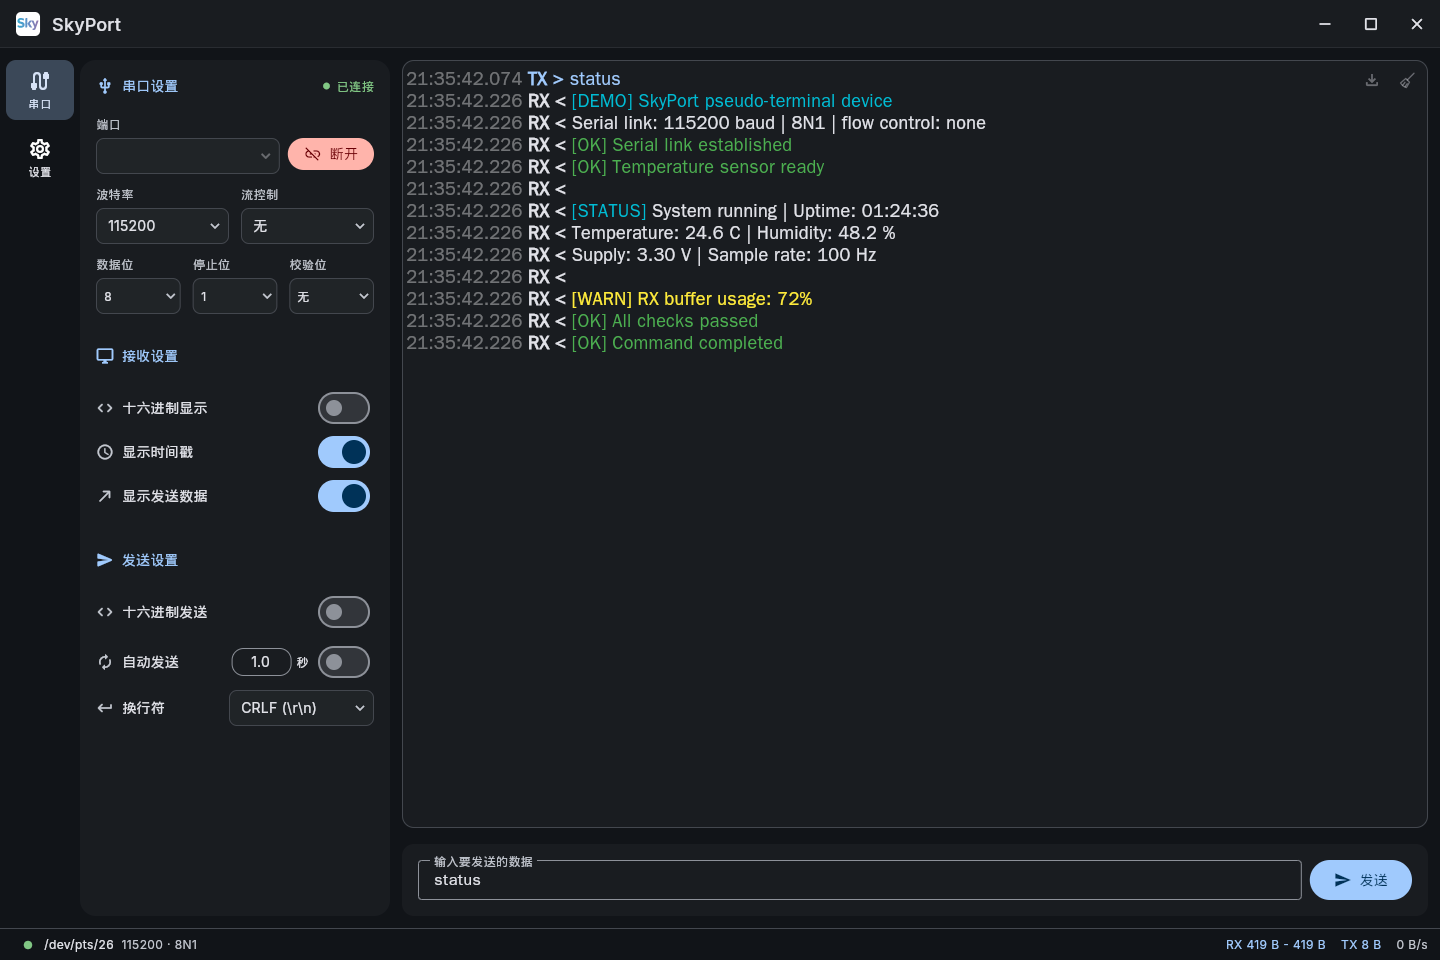
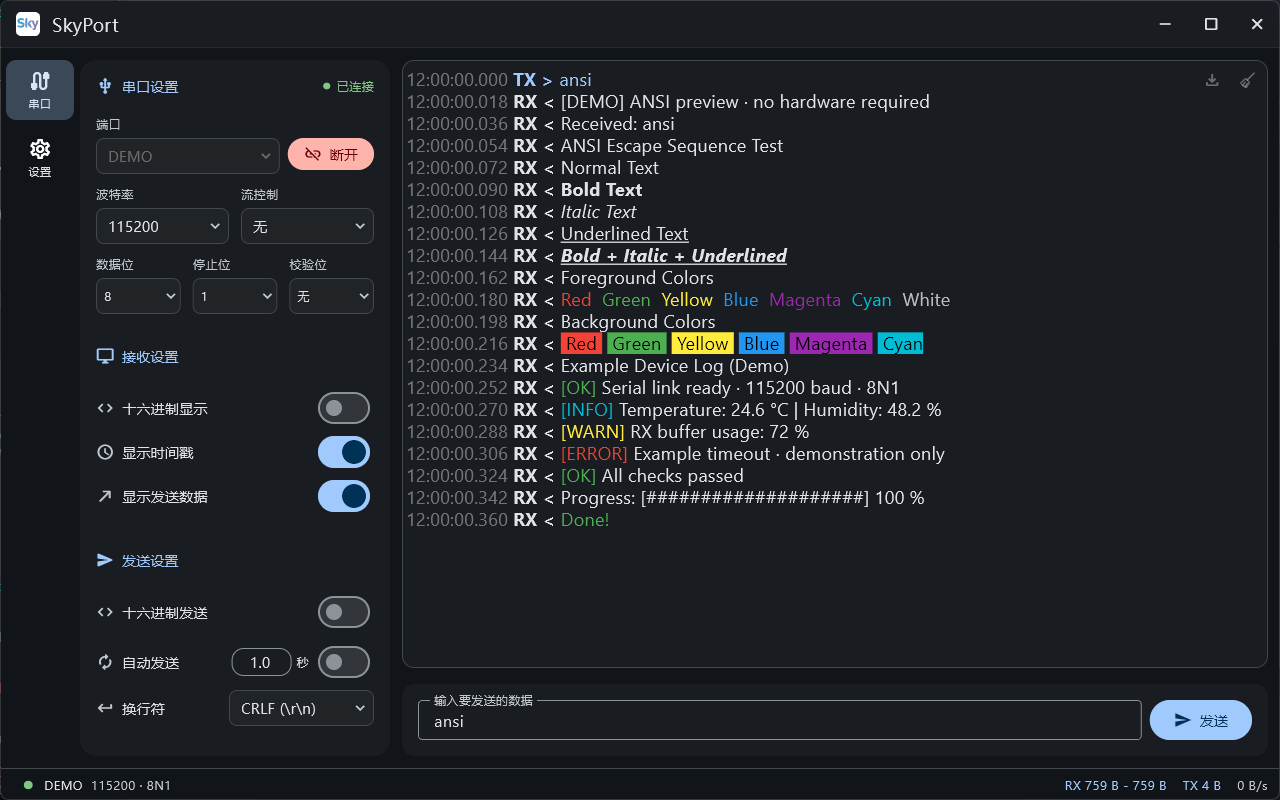
docs: automate README screenshot generation
Render a deterministic ANSI demo in the real Windows UI without requiring serial hardware. Keep timestamps stable and remove duplicate color samples.

diff --git a/app/integration_test/readme_screenshot_test.dart b/app/integration_test/readme_screenshot_test.dart
@@ -1,0 +1,169 @@
+import 'dart:convert';
+import 'dart:io';
+import 'dart:typed_data';
+
+import 'package:flutter/material.dart';
+import 'package:flutter_riverpod/flutter_riverpod.dart';
+import 'package:flutter_test/flutter_test.dart';
+import 'package:integration_test/integration_test.dart';
+import 'package:shared_preferences/shared_preferences.dart';
+import 'package:skyport/main.dart';
+import 'package:skyport/models/log_model.dart';
+import 'package:skyport/models/ui_state.dart';
+import 'package:skyport/providers/common_providers.dart';
+import 'package:skyport/providers/ui_controller.dart';
+
+// Presentation fixture only: no CoreBootstrap, native session, or serial device.
+class _ScreenshotController extends UiController {
+  @override
+  UiState build() {
+    const lines = [
+      '[DEMO] ANSI preview · no hardware required',
+      'Received: ansi',
+      'ANSI Escape Sequence Test',
+      'Normal Text',
+      '\x1b[1mBold Text\x1b[0m',
+      '\x1b[3mItalic Text\x1b[0m',
+      '\x1b[4mUnderlined Text\x1b[0m',
+      '\x1b[1;3;4mBold + Italic + Underlined\x1b[0m',
+      'Foreground Colors',
+      '\x1b[31mRed\x1b[0m  \x1b[32mGreen\x1b[0m  \x1b[33mYellow\x1b[0m  \x1b[34mBlue\x1b[0m  \x1b[35mMagenta\x1b[0m  \x1b[36mCyan\x1b[0m  \x1b[37mWhite\x1b[0m',
+      'Background Colors',
+      '\x1b[30;41m Red \x1b[0m \x1b[30;42m Green \x1b[0m \x1b[30;43m Yellow \x1b[0m \x1b[30;44m Blue \x1b[0m \x1b[30;45m Magenta \x1b[0m \x1b[30;46m Cyan \x1b[0m',
+      'Example Device Log (Demo)',
+      '\x1b[32m[OK]\x1b[0m Serial link ready · 115200 baud · 8N1',
+      '\x1b[36m[INFO]\x1b[0m Temperature: 24.6 °C | Humidity: 48.2 %',
+      '\x1b[33m[WARN]\x1b[0m RX buffer usage: 72 %',
+      '\x1b[31m[ERROR]\x1b[0m Example timeout · demonstration only',
+      '\x1b[32m[OK]\x1b[0m All checks passed',
+      'Progress: [####################] 100 %',
+      '\x1b[32mDone!\x1b[0m',
+    ];
+    final timestamp = DateTime.utc(2026, 1, 1, 12);
+    final entries = [
+      LogEntry(
+        Uint8List.fromList(utf8.encode('ansi')),
+        LogEntryType.sent,
+        timestamp,
+        id: 1,
+      ),
+      for (var i = 0; i < lines.length; i++)
+        LogEntry(
+          Uint8List.fromList(utf8.encode(lines[i])),
+          LogEntryType.received,
+          timestamp.add(Duration(milliseconds: (i + 1) * 18)),
+          id: i + 2,
+        ),
+    ];
+    final rx = entries
+        .skip(1)
+        .fold<int>(0, (size, row) => size + row.data.length);
+    return UiState(
+      sequence: 0,
+      connection: UiConnection.connected,
+      portName: 'DEMO',
+      baudRate: 115200,
+      dataBits: 8,
+      parity: UiParity.none,
+      flowControl: UiFlowControl.none,
+      stopBits: 1,
+      autoReconnect: false,
+      hexSend: false,
+      newline: UiNewline.crlf,
+      appendNewline: true,
+      autoSendEnabled: false,
+      autoSendIntervalMs: 1000,
+      logCapacityBytes: 128 * 1024 * 1024,
+      sendHistory: const ['ansi'],
+      autoSendInput: 'ansi',
+      ports: const ['DEMO'],
+      rxBytes: rx,
+      txBytes: 4,
+      lastRxBytes: rx,
+      error: null,
+      logs: LogState(
+        chunks: [LogChunk(entries: entries, id: 1)],
+        totalBytes: rx + 4,
+      ),
+      trimmedBytes: 0,
+      trimmedRecords: 0,
+      logIncomplete: false,
+    );
+  }
+}
+
+void main() {
+  final binding = IntegrationTestWidgetsFlutterBinding.ensureInitialized();
+  final env = Platform.environment;
+  final work = env['SKYPORT_SCREENSHOT_DIR'];
+  if (work != null && Platform.isWindows) {
+    // Windows accessibility can enable platform semantics when foregrounded.
+    // Establish that handle before testWidgets records its ownership baseline.
+    binding.platformDispatcher.semanticsEnabledTestValue = true;
+    tearDownAll(binding.platformDispatcher.clearSemanticsEnabledTestValue);
+  }
+  testWidgets(
+    'render README demo fixture',
+    (tester) async {
+      SharedPreferences.setMockInitialValues({
+        'ui_enable_ansi': true,
+        'ui_show_timestamp': true,
+        'ui_show_sent': true,
+        'theme_mode': env['SKYPORT_SCREENSHOT_THEME']!,
+        'dynamic_color_enabled': false,
+        'dynamic_color_preference_initialized': true,
+      });
+      final prefs = await SharedPreferences.getInstance();
+      final container = ProviderContainer(
+        overrides: [
+          sharedPreferencesProvider.overrideWithValue(prefs),
+          uiControllerProvider.overrideWith(_ScreenshotController.new),
+        ],
+      );
+      binding.platformDispatcher.localesTestValue = [
+        Locale(env['SKYPORT_SCREENSHOT_LANGUAGE']!),
+      ];
+      addTearDown(binding.platformDispatcher.clearLocalesTestValue);
+      try {
+        await tester.pumpWidget(
+          UncontrolledProviderScope(
+            container: container,
+            child: const SerialDebuggerApp(),
+          ),
+        );
+        await tester.pumpAndSettle();
+        await tester.runAsync(() async {
+          final pending = File('$work/window.pending');
+          await pending.writeAsString(jsonEncode({'pid': pid}), flush: true);
+          await pending.rename('$work/window.json');
+        });
+        await _wait(tester, () => File('$work/framed').existsSync());
+        await tester.pumpAndSettle();
+        FocusManager.instance.primaryFocus?.unfocus();
+        await tester.pumpAndSettle();
+        await tester.runAsync(
+          () => File('$work/ready').writeAsString('ready', flush: true),
+        );
+        await _wait(tester, () => File('$work/captured').existsSync());
+      } finally {
+        await tester.pumpWidget(const SizedBox.shrink());
+        container.dispose();
+      }
+    },
+    skip: work == null || !Platform.isWindows,
+    timeout: const Timeout(Duration(minutes: 2)),
+  );
+}
+
+Future<void> _wait(WidgetTester tester, bool Function() ready) async {
+  final deadline = DateTime.now().add(const Duration(seconds: 60));
+  while (!ready()) {
+    if (DateTime.now().isAfter(deadline)) {
+      fail('Screenshot script did not acknowledge the rendered frame');
+    }
+    await tester.runAsync(
+      () => Future<void>.delayed(const Duration(milliseconds: 50)),
+    );
+    await tester.pump();
+  }
+}

diff --git a/scripts/readme_screenshot.py b/scripts/readme_screenshot.py
@@ -1,0 +1,148 @@
+#!/usr/bin/env python3
+"""Capture the real Windows UI with deterministic demo data; no serial hardware."""
+import argparse
+import json
+import os
+from pathlib import Path
+import shutil
+import subprocess
+import tempfile
+import time
+
+
+# Capture only the test application's window, never an arbitrary SkyPort instance.
+WINDOW_SCRIPT = r'''
+param([int]$AppPid, [int]$Width, [int]$Height, [string]$Output)
+$ErrorActionPreference = 'Stop'
+Add-Type -AssemblyName System.Drawing
+Add-Type -AssemblyName System.Windows.Forms
+Add-Type @'
+using System;
+using System.Runtime.InteropServices;
+public class CaptureWindow {
+  [DllImport("user32.dll")] public static extern bool SetProcessDPIAware();
+  [DllImport("user32.dll")] public static extern bool SetForegroundWindow(IntPtr h);
+  [DllImport("user32.dll")] public static extern bool ShowWindow(IntPtr h, int cmd);
+  [DllImport("user32.dll")] public static extern bool MoveWindow(IntPtr h, int x, int y, int w, int height, bool repaint);
+  [DllImport("user32.dll")] public static extern bool GetWindowRect(IntPtr h, out RECT r);
+  [DllImport("user32.dll")] public static extern bool SetCursorPos(int x, int y);
+  [DllImport("dwmapi.dll")] public static extern int DwmFlush();
+  public struct RECT { public int L, T, R, B; }
+}
+'@
+[CaptureWindow]::SetProcessDPIAware() | Out-Null
+$window = (Get-Process -Id $AppPid).MainWindowHandle
+if ($window -eq 0) { throw 'Screenshot application has no desktop window' }
+$screen = [System.Windows.Forms.Screen]::PrimaryScreen.Bounds
+if ($Width -gt $screen.Width -or $Height -gt $screen.Height) {
+  throw 'Requested screenshot is larger than the primary display'
+}
+$x = [int](($screen.Width - $Width) / 2)
+$y = [int](($screen.Height - $Height) / 2)
+[CaptureWindow]::ShowWindow($window, 9) | Out-Null
+if (![CaptureWindow]::SetForegroundWindow($window)) { throw 'Cannot foreground screenshot window; keep the desktop unlocked' }
+if (![CaptureWindow]::MoveWindow($window, $x, $y, $Width, $Height, $true)) { throw 'Cannot resize screenshot window' }
+[CaptureWindow]::DwmFlush() | Out-Null
+if ($Output) {
+  $r = New-Object CaptureWindow+RECT
+  if (![CaptureWindow]::GetWindowRect($window, [ref]$r)) { throw 'Cannot read window bounds' }
+  if (($r.R-$r.L) -ne $Width -or ($r.B-$r.T) -ne $Height) { throw 'Unexpected capture dimensions' }
+  [CaptureWindow]::SetCursorPos($screen.Right-1, $screen.Bottom-1) | Out-Null
+  $bitmap = New-Object System.Drawing.Bitmap $Width, $Height
+  $graphics = [System.Drawing.Graphics]::FromImage($bitmap)
+  try {
+    $graphics.CopyFromScreen($r.L, $r.T, 0, 0, $bitmap.Size)
+    $bitmap.Save($Output, [System.Drawing.Imaging.ImageFormat]::Png)
+  } finally { $graphics.Dispose(); $bitmap.Dispose() }
+}
+'''
+
+
+def main() -> None:
+    root = Path(__file__).resolve().parent.parent
+    parser = argparse.ArgumentParser(
+        description=__doc__,
+        formatter_class=argparse.ArgumentDefaultsHelpFormatter,
+        epilog=('Requires an unlocked Windows desktop, Dart/Flutter, PowerShell, and '
+                'the Windows build toolchain. Run flutter pub get in app/ first. '
+                'Uses the repository test wrapper with --no-pub and isolated in-memory '
+                'preferences. No native core session or serial port is opened. '
+                'Do not interact with the desktop during capture. The destination is '
+                'replaced only after capture and scenario teardown succeed.'),
+    )
+    parser.add_argument('--theme', choices=['dark', 'light'], default='dark', help='UI theme')
+    parser.add_argument('--language', choices=['zh', 'en'], default='zh', help='UI language')
+    parser.add_argument('--output', type=Path, default=root / 'static/images/main_interface.png',
+                        help='Destination PNG path')
+    parser.add_argument('--width', type=int, default=1280, help='Window width in pixels')
+    parser.add_argument('--height', type=int, default=800, help='Window height in pixels')
+    parser.add_argument('--timeout', type=int, default=600, help='Total build/scenario deadline in seconds')
+    args = parser.parse_args()
+    if os.name != 'nt':
+        parser.error('Desktop capture currently supports Windows only')
+    if args.width < 1000 or args.height < 800 or args.timeout <= 0:
+        parser.error('Use a positive timeout and a window of at least 1000 x 800')
+    dart = shutil.which('dart')
+    flutter = os.environ.get('FLUTTER_BIN') or shutil.which('flutter')
+    if not dart or not flutter or not shutil.which('powershell'):
+        parser.error('Dart/Flutter and Windows PowerShell must be on PATH')
+    output = args.output.resolve()
+    output.parent.mkdir(parents=True, exist_ok=True)
+    with tempfile.TemporaryDirectory(prefix='skyport-screenshot-') as temporary:
+        work = Path(temporary)
+        capture = work / 'capture.ps1'
+        capture.write_text(WINDOW_SCRIPT, encoding='utf-8')
+        env = os.environ.copy()
+        env.update({
+            'FLUTTER_BIN': flutter,
+            'SKYPORT_SCREENSHOT_DIR': str(work),
+            'SKYPORT_SCREENSHOT_THEME': args.theme,
+            'SKYPORT_SCREENSHOT_LANGUAGE': args.language,
+        })
+        # Preserve the previous asset unless capture and scenario teardown succeed.
+        staged = output.with_name(output.name + '.pending.png')
+        with (work / 'flutter.log').open('w+', encoding='utf-8') as log:
+            process = subprocess.Popen(
+                [dart, '../tool/quiet_flutter_test.dart',
+                 'integration_test/readme_screenshot_test.dart', '-d', 'windows', '--no-pub'],
+                cwd=root / 'app', env=env, stdout=log, stderr=subprocess.STDOUT,
+            )
+            try:
+                deadline = time.monotonic() + args.timeout
+                framed = captured = False
+                while process.poll() is None:
+                    if time.monotonic() >= deadline:
+                        raise TimeoutError('Screenshot build/scenario deadline exceeded')
+                    if (work / 'window.json').exists() and not framed:
+                        app_pid = json.loads((work / 'window.json').read_text())['pid']
+                        command = ['powershell', '-NoProfile', '-ExecutionPolicy', 'Bypass',
+                                   '-File', str(capture), '-AppPid', str(app_pid),
+                                   '-Width', str(args.width), '-Height', str(args.height)]
+                        subprocess.run(command, check=True, timeout=30)
+                        (work / 'framed').touch()
+                        framed = True
+                    if (work / 'ready').exists() and not captured:
+                        subprocess.run(command + ['-Output', str(staged)], check=True, timeout=30)
+                        (work / 'captured').touch()
+                        captured = True
+                    time.sleep(0.1)
+                if process.returncode != 0 or not captured:
+                    raise RuntimeError(f'Screenshot scenario failed (exit {process.returncode})')
+                staged.replace(output)
+                print(f'SCREENSHOT_OK: {output} ({args.width}x{args.height}, '
+                      f'{args.language}, {args.theme}, demo data, no hardware)')
+            except BaseException:
+                if process.poll() is None:
+                    subprocess.run(['taskkill', '/PID', str(process.pid), '/T', '/F'],
+                                   stdout=subprocess.DEVNULL, stderr=subprocess.DEVNULL)
+                    process.wait(timeout=30)
+                log.flush()
+                log.seek(0)
+                print(log.read())
+                raise
+            finally:
+                staged.unlink(missing_ok=True)
+
+
+if __name__ == '__main__':
+    main()

diff --git a/README.md b/README.md
@@ -19,7 +19,7 @@ Connect devices, send and receive text or Hex data, inspect ANSI-colored logs, a
 </div>
 
 <p align="center">
-  <img src="static/images/main_interface.png" alt="SkyPort dark theme with a Chinese interface: serial settings, text transmission, and ANSI-colored logs" width="100%">
+  <img src="static/images/main_interface.png" alt="SkyPort dark theme with a Chinese interface and deterministic demo data: serial settings, text transmission, and ANSI-colored logs" width="100%">
 </p>
 
 ## Features

diff --git a/README_zh_CN.md b/README_zh_CN.md
@@ -19,7 +19,7 @@
 </div>
 
 <p align="center">
-  <img src="static/images/main_interface.png" alt="SkyPort 深色界面：串口参数、文本发送与 ANSI 彩色日志" width="100%">
+  <img src="static/images/main_interface.png" alt="SkyPort 深色界面与固定演示数据：串口参数、文本发送与 ANSI 彩色日志" width="100%">
 </p>
 
 ## 功能亮点
